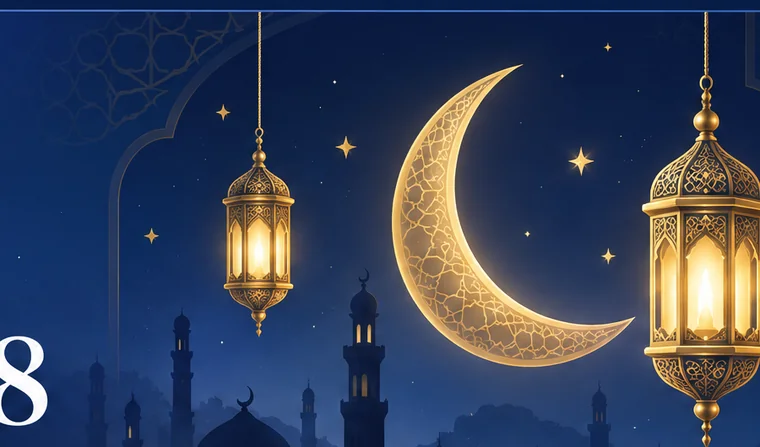
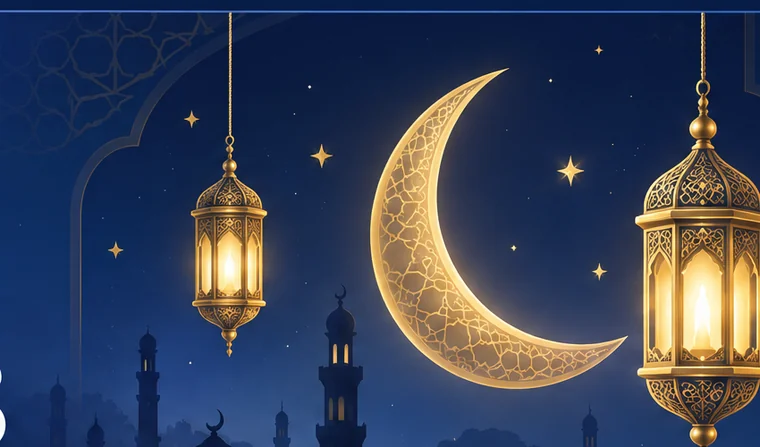
Season reminders: one push 15 days ahead ('Ramadan 1448 is in 15 days', 'Starts 8 Feb. Open to see last year's numbers.'); in the app the season card shows once with Later and Open (Open goes to that season in Seasons Calendar); Ramadan art cropped clean
Claude-Session: https://claude.ai/code/session_01Fhv3nqVBBPmAG7i6xQGF84

diff --git a/source/Index.source.html b/source/Index.source.html
@@ -5966,6 +5966,11 @@ window.addEventListener('load',function(){
     .ss-art .ss-ln{margin-bottom:118px!important}
     .ss-art>b,.ss-art .ss-tag{max-width:100%!important}
     .ss-art .ss-img{background-position:center!important}
+    .ssr-ov{position:fixed;inset:0;z-index:2147482000;background:rgba(8,12,30,.6);display:flex;align-items:flex-end;justify-content:center;padding:16px 14px calc(18px + env(safe-area-inset-bottom));opacity:0;transition:opacity .25s}
+    .ssr-ov.on{opacity:1}.ssr-ov .ssr{width:100%;max-width:440px;transform:translateY(30px);transition:transform .35s cubic-bezier(.2,.8,.25,1);margin:0}.ssr-ov.on .ssr{transform:none}
+    .ssr-x{position:absolute;right:12px;top:12px;z-index:3;width:30px;height:30px;border-radius:50%;border:0;background:rgba(14,26,70,.6);color:#fff;font-size:13px;cursor:pointer}
+    .ssr-b{display:flex;gap:8px;margin-top:14px}.ssr-b button{flex:1;height:44px;border-radius:13px;border:0;font:inherit;font-size:13.5px;font-weight:900;cursor:pointer}
+    .ssr-l{background:rgba(255,255,255,.1);color:#c9d6ff;border:1px solid rgba(255,255,255,.15)!important}.ssr-o{background:linear-gradient(135deg,#f3d79f,#d9a448);color:#2b1d05}
 </style>
 </head>
 <body>
@@ -7687,6 +7692,7 @@ function render(d,opts){
  setTimeout(()=>{try{roasDropCheck(d)}catch(e){}},1300);
  try{streakDraw(d)}catch(e){}
  try{bbDraw()}catch(e){}
+ setTimeout(()=>{try{ssRemind()}catch(e){}},2600);
  try{if(!WK_LY)drawWeeklyLy(false)}catch(e){}
  try{storyTrayDraw();if(STX_PENDING===CURRENT_ACCOUNT){STX_PENDING='';setTimeout(()=>openStories(CURRENT_ACCOUNT),400)}}catch(e){}
  kpi('kValue','tValue','dValue','pValue',money(x.value),money(x.planValue),x.valueAchievement,false);
@@ -12446,6 +12452,20 @@ function ssDeco(th){
  return `<div class="sd" aria-hidden="true"><div class="sd-hill"></div><span class="sd-sheep" style="right:22px;bottom:12px">🐑</span><span class="sd-sheep" style="right:72px;bottom:22px;font-size:20px;animation-delay:-1s">🐑</span><span class="sd-sheep" style="right:120px;bottom:10px;font-size:24px;animation-delay:-2s">🐑</span></div>`;
 }
 const SS_IC={cal:'<svg viewBox="0 0 24 24"><rect x="4" y="5" width="16" height="15" rx="2.5"/><path d="M8 3v4M16 3v4M4 10h16"/></svg>',flag:'<svg viewBox="0 0 24 24"><path d="M5 21V4M5 4h11l-2 4 2 4H5"/></svg>',moon:'<svg viewBox="0 0 24 24"><path d="M20 14.5A8 8 0 0 1 9.5 4 8 8 0 1 0 20 14.5z"/></svg>'};
+const SS_ART={ramadan:'Prepare your Ramadan campaigns.',last10:'Prepare campaigns for the final nights.',eidfitr:'Get your Eid campaigns ready.',dhulhijjah:'Plan for the first ten days.',arafah:'Make an impact on the Day of Arafah.',eidadha:'Prepare your Eid al-Adha campaigns.',ashura:'Prepare your Ashura campaign plan.',thanksgiving:'Prepare your Thanksgiving campaigns.',givingtuesday:'Plan your Giving Tuesday campaign.',yearend:'Prepare your year-end giving campaigns.'};
+// v173 season reminder in the app: 15 days or less before a season, its card shows once (Later or Open).
+function ssRemind(){
+ if(document.getElementById('ssRem')||!canDo('seasons')||document.body.classList.contains('gate-open'))return;
+ const t=ssToday(),s=ssList().find(x=>x.from>t&&ssDays(t,x.from)<=15&&SS_ART[x.key]);if(!s)return;
+ const k='sekna_ssrem_'+s.id;if(storeGet(k))return;
+ const n=ssDays(t,s.from),o=document.createElement('div');o.id='ssRem';o.className='ssr-ov';o.setAttribute('data-share-ui','');
+ o.innerHTML=`<div class="ss-hero ss-art ss-a-${s.key} ssr" role="dialog" aria-label="${esc(s.name)} reminder"><i class="ss-img" style="background-image:url('icons/seasons/${s.key}.webp?v=5')"></i><button type="button" class="ssr-x" aria-label="Close" onclick="ssRemClose('${k}')">✕</button><span class="ss-wm">HEMERA</span><i class="ss-ln"></i><small>REMINDER · IN ${n} DAY${n===1?'':'S'}</small><b>${esc(s.name)}</b><p class="ss-tag">${esc(SS_ART[s.key])}</p>
+  <div class="ss-cd ss-cd3"><span><em>${SS_IC.cal}</em><strong>${n}</strong>day${n===1?'':'s'}</span><span><em>${SS_IC.flag}</em><strong>${esc(ssD(s.from))}</strong>starts</span>${s.type==='h'?`<span><em>${SS_IC.moon}</em><strong>${s.hy}</strong>Hijri year</span>`:`<span><em>${SS_IC.moon}</em><strong>${s.len}</strong>day${s.len>1?'s':''} long</span>`}</div>
+  <div class="ssr-b"><button type="button" class="ssr-l" onclick="ssRemClose('${k}')">Later</button><button type="button" class="ssr-o" onclick="ssRemOpen('${k}','${s.id}')">Open</button></div></div>`;
+ document.body.appendChild(o);requestAnimationFrame(()=>o.classList.add('on'));
+}
+function ssRemClose(k){storeSet(k,'1');const o=document.getElementById('ssRem');if(o){o.classList.remove('on');setTimeout(()=>o.remove(),250)}}
+function ssRemOpen(k,id){ssRemClose(k);SS.f='all';const t=ssToday(),L=ssList().filter(s=>s.to>=t&&ssDays(t,s.from)<=365);SS.hf='all';SS.hi=Math.max(0,L.findIndex(s=>s.id===id));switchDashboardTab('seasons');window.scrollTo(0,0)}
 function renderSeasons(){
  const el=document.getElementById('ssBody');if(!el)return;
  ssLoadInfo();ssLoadExtras();
@@ -12453,7 +12473,6 @@ function renderSeasons(){
  // The hero: the next big season (Ramadan, Dhul Hijjah) or Eid al-Fitr, each with its own look.
  // v173 the seasons with their own artwork lead the hero
  // The hero shows the nearest season for the filter (All, Hijri or US); the arrows step through them.
- const SS_ART={ramadan:'Prepare your Ramadan campaigns.',last10:'Prepare campaigns for the final nights.',eidfitr:'Get your Eid campaigns ready.',dhulhijjah:'Plan for the first ten days.',arafah:'Make an impact on the Day of Arafah.',eidadha:'Prepare your Eid al-Adha campaigns.',ashura:'Prepare your Ashura campaign plan.',thanksgiving:'Prepare your Thanksgiving campaigns.',givingtuesday:'Plan your Giving Tuesday campaign.',yearend:'Prepare your year-end giving campaigns.'};
  const heroList=next.filter(s=>SS.f==='all'||s.type===SS.f);
  if(SS.hi==null||SS.hf!==SS.f){SS.hi=0;SS.hf=SS.f}
  SS.hi=Math.max(0,Math.min(SS.hi,heroList.length-1));
@@ -12464,7 +12483,7 @@ function renderSeasons(){
    const th=ssTheme(big.key);
    const art=SS_ART[big.key];
    const nav=heroList.length>1?`<div class="ss-nav"><button type="button" aria-label="Earlier season" ${SS.hi<=0?'disabled':''} onclick="ssHero(-1)">‹</button><span>${SS.hi+1} / ${heroList.length}</span><button type="button" aria-label="Next season" ${SS.hi>=heroList.length-1?'disabled':''} onclick="ssHero(1)">›</button></div>`:'';
-   hero=art?`<div class="ss-hero ss-art ss-a-${big.key}">${nav}<i class="ss-img" style="background-image:url('icons/seasons/${big.key}.webp?v=4')"></i><span class="ss-wm">HEMERA</span><i class="ss-ln"></i><small>${live?'ON NOW':SS.hi?'COMING UP':'NEXT SEASON'} · ${big.type==='h'?'HIJRI':'US'}</small><b>${esc(big.name)}</b><p class="ss-tag">${esc(art)}</p>
+   hero=art?`<div class="ss-hero ss-art ss-a-${big.key}">${nav}<i class="ss-img" style="background-image:url('icons/seasons/${big.key}.webp?v=5')"></i><span class="ss-wm">HEMERA</span><i class="ss-ln"></i><small>${live?'ON NOW':SS.hi?'COMING UP':'NEXT SEASON'} · ${big.type==='h'?'HIJRI':'US'}</small><b>${esc(big.name)}</b><p class="ss-tag">${esc(art)}</p>
      <div class="ss-cd ss-cd3">${live?`<span><em>${SS_IC.cal}</em><strong>${ssDays(big.from,t)+1}</strong>of ${big.len} days</span><span><em>${SS_IC.flag}</em><strong>${esc(ssD(big.to))}</strong>ends</span>`:`<span><em>${SS_IC.cal}</em><strong>${n}</strong>day${n===1?'':'s'}</span><span><em>${SS_IC.flag}</em><strong>${esc(ssD(big.from))}</strong>starts</span>`}${big.type==='h'?`<span><em>${SS_IC.moon}</em><strong>${big.hy}</strong>Hijri year</span>`:`<span><em>${SS_IC.moon}</em><strong>${big.len}</strong>day${big.len>1?'s':''} long</span>`}</div>
      ${p?`<div class="ss-rd">Team ready · ${pct}% (${p.done} of ${p.n} prep task${p.n>1?'s':''})</div><div class="ss-bar"><i style="width:${pct}%"></i></div>`:''}
      <div class="ss-hd">${ssDetail(big,all)}</div></div>`:`<div class="ss-hero${th?' th-'+th:''}">${th?ssDeco(th):''}<small>${live?'ON NOW':'NEXT BIG SEASON'} · HIJRI</small><b>${esc(big.name)}</b>

diff --git a/index.html b/index.html
@@ -6130,6 +6130,11 @@ window.addEventListener('load',function(){
     .ss-art .ss-ln{margin-bottom:118px!important}
     .ss-art>b,.ss-art .ss-tag{max-width:100%!important}
     .ss-art .ss-img{background-position:center!important}
+    .ssr-ov{position:fixed;inset:0;z-index:2147482000;background:rgba(8,12,30,.6);display:flex;align-items:flex-end;justify-content:center;padding:16px 14px calc(18px + env(safe-area-inset-bottom));opacity:0;transition:opacity .25s}
+    .ssr-ov.on{opacity:1}.ssr-ov .ssr{width:100%;max-width:440px;transform:translateY(30px);transition:transform .35s cubic-bezier(.2,.8,.25,1);margin:0}.ssr-ov.on .ssr{transform:none}
+    .ssr-x{position:absolute;right:12px;top:12px;z-index:3;width:30px;height:30px;border-radius:50%;border:0;background:rgba(14,26,70,.6);color:#fff;font-size:13px;cursor:pointer}
+    .ssr-b{display:flex;gap:8px;margin-top:14px}.ssr-b button{flex:1;height:44px;border-radius:13px;border:0;font:inherit;font-size:13.5px;font-weight:900;cursor:pointer}
+    .ssr-l{background:rgba(255,255,255,.1);color:#c9d6ff;border:1px solid rgba(255,255,255,.15)!important}.ssr-o{background:linear-gradient(135deg,#f3d79f,#d9a448);color:#2b1d05}
 </style>
 </head>
 <body>
@@ -7850,6 +7855,7 @@ function render(d,opts){
  setTimeout(()=>{try{roasDropCheck(d)}catch(e){}},1300);
  try{streakDraw(d)}catch(e){}
  try{bbDraw()}catch(e){}
+ setTimeout(()=>{try{ssRemind()}catch(e){}},2600);
  try{if(!WK_LY)drawWeeklyLy(false)}catch(e){}
  try{storyTrayDraw();if(STX_PENDING===CURRENT_ACCOUNT){STX_PENDING='';setTimeout(()=>openStories(CURRENT_ACCOUNT),400)}}catch(e){}
  kpi('kValue','tValue','dValue','pValue',money(x.value),money(x.planValue),x.valueAchievement,false);
@@ -12581,6 +12587,20 @@ function ssDeco(th){
  return `<div class="sd" aria-hidden="true"><div class="sd-hill"></div><span class="sd-sheep" style="right:22px;bottom:12px">🐑</span><span class="sd-sheep" style="right:72px;bottom:22px;font-size:20px;animation-delay:-1s">🐑</span><span class="sd-sheep" style="right:120px;bottom:10px;font-size:24px;animation-delay:-2s">🐑</span></div>`;
 }
 const SS_IC={cal:'<svg viewBox="0 0 24 24"><rect x="4" y="5" width="16" height="15" rx="2.5"/><path d="M8 3v4M16 3v4M4 10h16"/></svg>',flag:'<svg viewBox="0 0 24 24"><path d="M5 21V4M5 4h11l-2 4 2 4H5"/></svg>',moon:'<svg viewBox="0 0 24 24"><path d="M20 14.5A8 8 0 0 1 9.5 4 8 8 0 1 0 20 14.5z"/></svg>'};
+const SS_ART={ramadan:'Prepare your Ramadan campaigns.',last10:'Prepare campaigns for the final nights.',eidfitr:'Get your Eid campaigns ready.',dhulhijjah:'Plan for the first ten days.',arafah:'Make an impact on the Day of Arafah.',eidadha:'Prepare your Eid al-Adha campaigns.',ashura:'Prepare your Ashura campaign plan.',thanksgiving:'Prepare your Thanksgiving campaigns.',givingtuesday:'Plan your Giving Tuesday campaign.',yearend:'Prepare your year-end giving campaigns.'};
+
+function ssRemind(){
+ if(document.getElementById('ssRem')||!canDo('seasons')||document.body.classList.contains('gate-open'))return;
+ const t=ssToday(),s=ssList().find(x=>x.from>t&&ssDays(t,x.from)<=15&&SS_ART[x.key]);if(!s)return;
+ const k='sekna_ssrem_'+s.id;if(storeGet(k))return;
+ const n=ssDays(t,s.from),o=document.createElement('div');o.id='ssRem';o.className='ssr-ov';o.setAttribute('data-share-ui','');
+ o.innerHTML=`<div class="ss-hero ss-art ss-a-${s.key} ssr" role="dialog" aria-label="${esc(s.name)} reminder"><i class="ss-img" style="background-image:url('icons/seasons/${s.key}.webp?v=5')"></i><button type="button" class="ssr-x" aria-label="Close" onclick="ssRemClose('${k}')">✕</button><span class="ss-wm">HEMERA</span><i class="ss-ln"></i><small>REMINDER · IN ${n} DAY${n===1?'':'S'}</small><b>${esc(s.name)}</b><p class="ss-tag">${esc(SS_ART[s.key])}</p>
+  <div class="ss-cd ss-cd3"><span><em>${SS_IC.cal}</em><strong>${n}</strong>day${n===1?'':'s'}</span><span><em>${SS_IC.flag}</em><strong>${esc(ssD(s.from))}</strong>starts</span>${s.type==='h'?`<span><em>${SS_IC.moon}</em><strong>${s.hy}</strong>Hijri year</span>`:`<span><em>${SS_IC.moon}</em><strong>${s.len}</strong>day${s.len>1?'s':''} long</span>`}</div>
+  <div class="ssr-b"><button type="button" class="ssr-l" onclick="ssRemClose('${k}')">Later</button><button type="button" class="ssr-o" onclick="ssRemOpen('${k}','${s.id}')">Open</button></div></div>`;
+ document.body.appendChild(o);requestAnimationFrame(()=>o.classList.add('on'));
+}
+function ssRemClose(k){storeSet(k,'1');const o=document.getElementById('ssRem');if(o){o.classList.remove('on');setTimeout(()=>o.remove(),250)}}
+function ssRemOpen(k,id){ssRemClose(k);SS.f='all';const t=ssToday(),L=ssList().filter(s=>s.to>=t&&ssDays(t,s.from)<=365);SS.hf='all';SS.hi=Math.max(0,L.findIndex(s=>s.id===id));switchDashboardTab('seasons');window.scrollTo(0,0)}
 function renderSeasons(){
  const el=document.getElementById('ssBody');if(!el)return;
  ssLoadInfo();ssLoadExtras();
@@ -12588,7 +12608,6 @@ function renderSeasons(){
  
  
  
- const SS_ART={ramadan:'Prepare your Ramadan campaigns.',last10:'Prepare campaigns for the final nights.',eidfitr:'Get your Eid campaigns ready.',dhulhijjah:'Plan for the first ten days.',arafah:'Make an impact on the Day of Arafah.',eidadha:'Prepare your Eid al-Adha campaigns.',ashura:'Prepare your Ashura campaign plan.',thanksgiving:'Prepare your Thanksgiving campaigns.',givingtuesday:'Plan your Giving Tuesday campaign.',yearend:'Prepare your year-end giving campaigns.'};
  const heroList=next.filter(s=>SS.f==='all'||s.type===SS.f);
  if(SS.hi==null||SS.hf!==SS.f){SS.hi=0;SS.hf=SS.f}
  SS.hi=Math.max(0,Math.min(SS.hi,heroList.length-1));
@@ -12599,7 +12618,7 @@ function renderSeasons(){
    const th=ssTheme(big.key);
    const art=SS_ART[big.key];
    const nav=heroList.length>1?`<div class="ss-nav"><button type="button" aria-label="Earlier season" ${SS.hi<=0?'disabled':''} onclick="ssHero(-1)">‹</button><span>${SS.hi+1} / ${heroList.length}</span><button type="button" aria-label="Next season" ${SS.hi>=heroList.length-1?'disabled':''} onclick="ssHero(1)">›</button></div>`:'';
-   hero=art?`<div class="ss-hero ss-art ss-a-${big.key}">${nav}<i class="ss-img" style="background-image:url('icons/seasons/${big.key}.webp?v=4')"></i><span class="ss-wm">HEMERA</span><i class="ss-ln"></i><small>${live?'ON NOW':SS.hi?'COMING UP':'NEXT SEASON'} · ${big.type==='h'?'HIJRI':'US'}</small><b>${esc(big.name)}</b><p class="ss-tag">${esc(art)}</p>
+   hero=art?`<div class="ss-hero ss-art ss-a-${big.key}">${nav}<i class="ss-img" style="background-image:url('icons/seasons/${big.key}.webp?v=5')"></i><span class="ss-wm">HEMERA</span><i class="ss-ln"></i><small>${live?'ON NOW':SS.hi?'COMING UP':'NEXT SEASON'} · ${big.type==='h'?'HIJRI':'US'}</small><b>${esc(big.name)}</b><p class="ss-tag">${esc(art)}</p>
      <div class="ss-cd ss-cd3">${live?`<span><em>${SS_IC.cal}</em><strong>${ssDays(big.from,t)+1}</strong>of ${big.len} days</span><span><em>${SS_IC.flag}</em><strong>${esc(ssD(big.to))}</strong>ends</span>`:`<span><em>${SS_IC.cal}</em><strong>${n}</strong>day${n===1?'':'s'}</span><span><em>${SS_IC.flag}</em><strong>${esc(ssD(big.from))}</strong>starts</span>`}${big.type==='h'?`<span><em>${SS_IC.moon}</em><strong>${big.hy}</strong>Hijri year</span>`:`<span><em>${SS_IC.moon}</em><strong>${big.len}</strong>day${big.len>1?'s':''} long</span>`}</div>
      ${p?`<div class="ss-rd">Team ready · ${pct}% (${p.done} of ${p.n} prep task${p.n>1?'s':''})</div><div class="ss-bar"><i style="width:${pct}%"></i></div>`:''}
      <div class="ss-hd">${ssDetail(big,all)}</div></div>`:`<div class="ss-hero${th?' th-'+th:''}">${th?ssDeco(th):''}<small>${live?'ON NOW':'NEXT BIG SEASON'} · HIJRI</small><b>${esc(big.name)}</b>

diff --git a/source/Index.html b/source/Index.html
@@ -5966,6 +5966,11 @@ window.addEventListener('load',function(){
     .ss-art .ss-ln{margin-bottom:118px!important}
     .ss-art>b,.ss-art .ss-tag{max-width:100%!important}
     .ss-art .ss-img{background-position:center!important}
+    .ssr-ov{position:fixed;inset:0;z-index:2147482000;background:rgba(8,12,30,.6);display:flex;align-items:flex-end;justify-content:center;padding:16px 14px calc(18px + env(safe-area-inset-bottom));opacity:0;transition:opacity .25s}
+    .ssr-ov.on{opacity:1}.ssr-ov .ssr{width:100%;max-width:440px;transform:translateY(30px);transition:transform .35s cubic-bezier(.2,.8,.25,1);margin:0}.ssr-ov.on .ssr{transform:none}
+    .ssr-x{position:absolute;right:12px;top:12px;z-index:3;width:30px;height:30px;border-radius:50%;border:0;background:rgba(14,26,70,.6);color:#fff;font-size:13px;cursor:pointer}
+    .ssr-b{display:flex;gap:8px;margin-top:14px}.ssr-b button{flex:1;height:44px;border-radius:13px;border:0;font:inherit;font-size:13.5px;font-weight:900;cursor:pointer}
+    .ssr-l{background:rgba(255,255,255,.1);color:#c9d6ff;border:1px solid rgba(255,255,255,.15)!important}.ssr-o{background:linear-gradient(135deg,#f3d79f,#d9a448);color:#2b1d05}
 </style>
 </head>
 <body>
@@ -7686,6 +7691,7 @@ function render(d,opts){
  setTimeout(()=>{try{roasDropCheck(d)}catch(e){}},1300);
  try{streakDraw(d)}catch(e){}
  try{bbDraw()}catch(e){}
+ setTimeout(()=>{try{ssRemind()}catch(e){}},2600);
  try{if(!WK_LY)drawWeeklyLy(false)}catch(e){}
  try{storyTrayDraw();if(STX_PENDING===CURRENT_ACCOUNT){STX_PENDING='';setTimeout(()=>openStories(CURRENT_ACCOUNT),400)}}catch(e){}
  kpi('kValue','tValue','dValue','pValue',money(x.value),money(x.planValue),x.valueAchievement,false);
@@ -12417,6 +12423,20 @@ function ssDeco(th){
  return `<div class="sd" aria-hidden="true"><div class="sd-hill"></div><span class="sd-sheep" style="right:22px;bottom:12px">🐑</span><span class="sd-sheep" style="right:72px;bottom:22px;font-size:20px;animation-delay:-1s">🐑</span><span class="sd-sheep" style="right:120px;bottom:10px;font-size:24px;animation-delay:-2s">🐑</span></div>`;
 }
 const SS_IC={cal:'<svg viewBox="0 0 24 24"><rect x="4" y="5" width="16" height="15" rx="2.5"/><path d="M8 3v4M16 3v4M4 10h16"/></svg>',flag:'<svg viewBox="0 0 24 24"><path d="M5 21V4M5 4h11l-2 4 2 4H5"/></svg>',moon:'<svg viewBox="0 0 24 24"><path d="M20 14.5A8 8 0 0 1 9.5 4 8 8 0 1 0 20 14.5z"/></svg>'};
+const SS_ART={ramadan:'Prepare your Ramadan campaigns.',last10:'Prepare campaigns for the final nights.',eidfitr:'Get your Eid campaigns ready.',dhulhijjah:'Plan for the first ten days.',arafah:'Make an impact on the Day of Arafah.',eidadha:'Prepare your Eid al-Adha campaigns.',ashura:'Prepare your Ashura campaign plan.',thanksgiving:'Prepare your Thanksgiving campaigns.',givingtuesday:'Plan your Giving Tuesday campaign.',yearend:'Prepare your year-end giving campaigns.'};
+
+function ssRemind(){
+ if(document.getElementById('ssRem')||!canDo('seasons')||document.body.classList.contains('gate-open'))return;
+ const t=ssToday(),s=ssList().find(x=>x.from>t&&ssDays(t,x.from)<=15&&SS_ART[x.key]);if(!s)return;
+ const k='sekna_ssrem_'+s.id;if(storeGet(k))return;
+ const n=ssDays(t,s.from),o=document.createElement('div');o.id='ssRem';o.className='ssr-ov';o.setAttribute('data-share-ui','');
+ o.innerHTML=`<div class="ss-hero ss-art ss-a-${s.key} ssr" role="dialog" aria-label="${esc(s.name)} reminder"><i class="ss-img" style="background-image:url('icons/seasons/${s.key}.webp?v=5')"></i><button type="button" class="ssr-x" aria-label="Close" onclick="ssRemClose('${k}')">✕</button><span class="ss-wm">HEMERA</span><i class="ss-ln"></i><small>REMINDER · IN ${n} DAY${n===1?'':'S'}</small><b>${esc(s.name)}</b><p class="ss-tag">${esc(SS_ART[s.key])}</p>
+  <div class="ss-cd ss-cd3"><span><em>${SS_IC.cal}</em><strong>${n}</strong>day${n===1?'':'s'}</span><span><em>${SS_IC.flag}</em><strong>${esc(ssD(s.from))}</strong>starts</span>${s.type==='h'?`<span><em>${SS_IC.moon}</em><strong>${s.hy}</strong>Hijri year</span>`:`<span><em>${SS_IC.moon}</em><strong>${s.len}</strong>day${s.len>1?'s':''} long</span>`}</div>
+  <div class="ssr-b"><button type="button" class="ssr-l" onclick="ssRemClose('${k}')">Later</button><button type="button" class="ssr-o" onclick="ssRemOpen('${k}','${s.id}')">Open</button></div></div>`;
+ document.body.appendChild(o);requestAnimationFrame(()=>o.classList.add('on'));
+}
+function ssRemClose(k){storeSet(k,'1');const o=document.getElementById('ssRem');if(o){o.classList.remove('on');setTimeout(()=>o.remove(),250)}}
+function ssRemOpen(k,id){ssRemClose(k);SS.f='all';const t=ssToday(),L=ssList().filter(s=>s.to>=t&&ssDays(t,s.from)<=365);SS.hf='all';SS.hi=Math.max(0,L.findIndex(s=>s.id===id));switchDashboardTab('seasons');window.scrollTo(0,0)}
 function renderSeasons(){
  const el=document.getElementById('ssBody');if(!el)return;
  ssLoadInfo();ssLoadExtras();
@@ -12424,7 +12444,6 @@ function renderSeasons(){
  
  
  
- const SS_ART={ramadan:'Prepare your Ramadan campaigns.',last10:'Prepare campaigns for the final nights.',eidfitr:'Get your Eid campaigns ready.',dhulhijjah:'Plan for the first ten days.',arafah:'Make an impact on the Day of Arafah.',eidadha:'Prepare your Eid al-Adha campaigns.',ashura:'Prepare your Ashura campaign plan.',thanksgiving:'Prepare your Thanksgiving campaigns.',givingtuesday:'Plan your Giving Tuesday campaign.',yearend:'Prepare your year-end giving campaigns.'};
  const heroList=next.filter(s=>SS.f==='all'||s.type===SS.f);
  if(SS.hi==null||SS.hf!==SS.f){SS.hi=0;SS.hf=SS.f}
  SS.hi=Math.max(0,Math.min(SS.hi,heroList.length-1));
@@ -12435,7 +12454,7 @@ function renderSeasons(){
    const th=ssTheme(big.key);
    const art=SS_ART[big.key];
    const nav=heroList.length>1?`<div class="ss-nav"><button type="button" aria-label="Earlier season" ${SS.hi<=0?'disabled':''} onclick="ssHero(-1)">‹</button><span>${SS.hi+1} / ${heroList.length}</span><button type="button" aria-label="Next season" ${SS.hi>=heroList.length-1?'disabled':''} onclick="ssHero(1)">›</button></div>`:'';
-   hero=art?`<div class="ss-hero ss-art ss-a-${big.key}">${nav}<i class="ss-img" style="background-image:url('icons/seasons/${big.key}.webp?v=4')"></i><span class="ss-wm">HEMERA</span><i class="ss-ln"></i><small>${live?'ON NOW':SS.hi?'COMING UP':'NEXT SEASON'} · ${big.type==='h'?'HIJRI':'US'}</small><b>${esc(big.name)}</b><p class="ss-tag">${esc(art)}</p>
+   hero=art?`<div class="ss-hero ss-art ss-a-${big.key}">${nav}<i class="ss-img" style="background-image:url('icons/seasons/${big.key}.webp?v=5')"></i><span class="ss-wm">HEMERA</span><i class="ss-ln"></i><small>${live?'ON NOW':SS.hi?'COMING UP':'NEXT SEASON'} · ${big.type==='h'?'HIJRI':'US'}</small><b>${esc(big.name)}</b><p class="ss-tag">${esc(art)}</p>
      <div class="ss-cd ss-cd3">${live?`<span><em>${SS_IC.cal}</em><strong>${ssDays(big.from,t)+1}</strong>of ${big.len} days</span><span><em>${SS_IC.flag}</em><strong>${esc(ssD(big.to))}</strong>ends</span>`:`<span><em>${SS_IC.cal}</em><strong>${n}</strong>day${n===1?'':'s'}</span><span><em>${SS_IC.flag}</em><strong>${esc(ssD(big.from))}</strong>starts</span>`}${big.type==='h'?`<span><em>${SS_IC.moon}</em><strong>${big.hy}</strong>Hijri year</span>`:`<span><em>${SS_IC.moon}</em><strong>${big.len}</strong>day${big.len>1?'s':''} long</span>`}</div>
      ${p?`<div class="ss-rd">Team ready · ${pct}% (${p.done} of ${p.n} prep task${p.n>1?'s':''})</div><div class="ss-bar"><i style="width:${pct}%"></i></div>`:''}
      <div class="ss-hd">${ssDetail(big,all)}</div></div>`:`<div class="ss-hero${th?' th-'+th:''}">${th?ssDeco(th):''}<small>${live?'ON NOW':'NEXT BIG SEASON'} · HIJRI</small><b>${esc(big.name)}</b>

diff --git a/functions/rest.js b/functions/rest.js
@@ -562,26 +562,26 @@ async function pushState() {
     releaseTag: st.releaseTag || '' };
 }
 
-/* ---------- season reminders (the Seasons Calendar's seasons, 14 and 3 days ahead) ---------- */
+/* ---------- season reminders (the Seasons Calendar's seasons, 15 days ahead) ---------- */
 const SEASONS_H = [
-  { k: 'ramadan', m: 9, d: 1, name: 'Ramadan', e: '🌙' }, { k: 'last10', m: 9, d: 21, name: 'The last 10 nights', e: '🌙' },
-  { k: 'eidfitr', m: 10, d: 1, name: 'Eid al-Fitr', e: '🎉' }, { k: 'dhulhijjah', m: 12, d: 1, name: 'Dhul Hijjah', e: '🕋' },
+  { k: 'ramadan', m: 9, d: 1, name: 'Ramadan', e: '🌙', y: 1 }, { k: 'last10', m: 9, d: 21, name: 'The last 10 nights', e: '🌙' },
+  { k: 'eidfitr', m: 10, d: 1, name: 'Eid al-Fitr', e: '🎉' }, { k: 'dhulhijjah', m: 12, d: 1, name: 'First 10 days of Dhul Hijjah', e: '🕋', y: 1 },
   { k: 'arafah', m: 12, d: 9, name: 'The Day of Arafah', e: '🕋' }, { k: 'eidadha', m: 12, d: 10, name: 'Eid al-Adha', e: '🐑' },
   { k: 'ashura', m: 1, d: 10, name: 'Ashura', e: '🤲' }];
 const isoPlus = (dk, n) => new Date(Date.parse(dk + 'T00:00:00Z') + n * 864e5).toISOString().slice(0, 10);
 function nthDay(y, mo, wd, n) { const f = new Date(Date.UTC(y, mo - 1, 1)).getUTCDay(); return new Date(Date.UTC(y, mo - 1, 1 + (wd - f + 7) % 7 + (n - 1) * 7)).toISOString().slice(0, 10); }
-/** The seasons that start exactly 14 or 3 days after `today` (yyyy-mm-dd). */
+/** The seasons that start exactly 15 days after `today` (yyyy-mm-dd). */
 function seasonsDue(today) {
   const out = [], fmt = new Intl.DateTimeFormat('en-u-ca-islamic-umalqura', { day: 'numeric', month: 'numeric', year: 'numeric', timeZone: 'UTC' });
-  for (const left of [14, 3]) {
+  for (const left of [15]) {
     const dk = isoPlus(today, left), before = isoPlus(dk, -1);
     const h = dk => { const p = {}; fmt.formatToParts(new Date(dk + 'T00:00:00Z')).forEach(x => { p[x.type] = parseInt(x.value, 10); }); return p; };
     const a = h(dk), b = h(before);
     // A Hijri season starts on the first day that reaches its Hijri date.
-    SEASONS_H.forEach(s => { if (a.month === s.m && a.day >= s.d && !(b.month === s.m && b.day >= s.d)) out.push({ id: s.k + '-' + a.year, name: s.name, e: s.e, left, acc: '' }); });
+    SEASONS_H.forEach(s => { if (a.month === s.m && a.day >= s.d && !(b.month === s.m && b.day >= s.d)) out.push({ id: s.k + '-' + a.year, name: s.name + (s.y ? ' ' + a.year : ''), e: s.e, left, acc: '', at: dk }); });
     const y = +dk.slice(0, 4), tg = nthDay(y, 11, 4, 4);
     [['thanksgiving', 'Thanksgiving', '🦃', tg], ['givingtuesday', 'Giving Tuesday', '💛', isoPlus(tg, 5)], ['yearend', 'Year-end giving', '🎁', y + '-12-26']]
-      .forEach(([k, name, e, at]) => { if (at === dk) out.push({ id: k + '-' + y, name, e, left, acc: 'usa' }); });
+      .forEach(([k, name, e, at]) => { if (at === dk) out.push({ id: k + '-' + y, name, e, left, acc: 'usa', at: dk }); });
   }
   return out;
 }
@@ -629,7 +629,8 @@ async function pushChecks(latestByAccount, daysByAccount) {
       for (const s of seasonsDue(today)) {
         const key = s.id + '-' + s.left;
         if (sent[key]) continue;
-        await notify.send({ topics: [{ title: s.e + ' ' + s.name + ' in ' + s.left + ' days' + (s.acc ? ' · USA' : ''), body: 'Last year\'s numbers and your prep list are ready. Open HEMERA.',
+        const start = new Date(s.at + 'T00:00:00Z').toLocaleDateString('en-GB', { day: 'numeric', month: 'short', timeZone: 'UTC' });
+        await notify.send({ topics: [{ title: s.e + ' ' + s.name + ' is in ' + s.left + ' days' + (s.acc ? ' · USA' : ''), body: 'Starts ' + start + '. Open to see last year\'s numbers.',
           account: s.acc || 'usa', eventType: 'season' }] }).catch(e => console.error('Season reminder: ' + e.message));
         sent[key] = Date.now(); out.season = (out.season || []).concat(key);
       }
